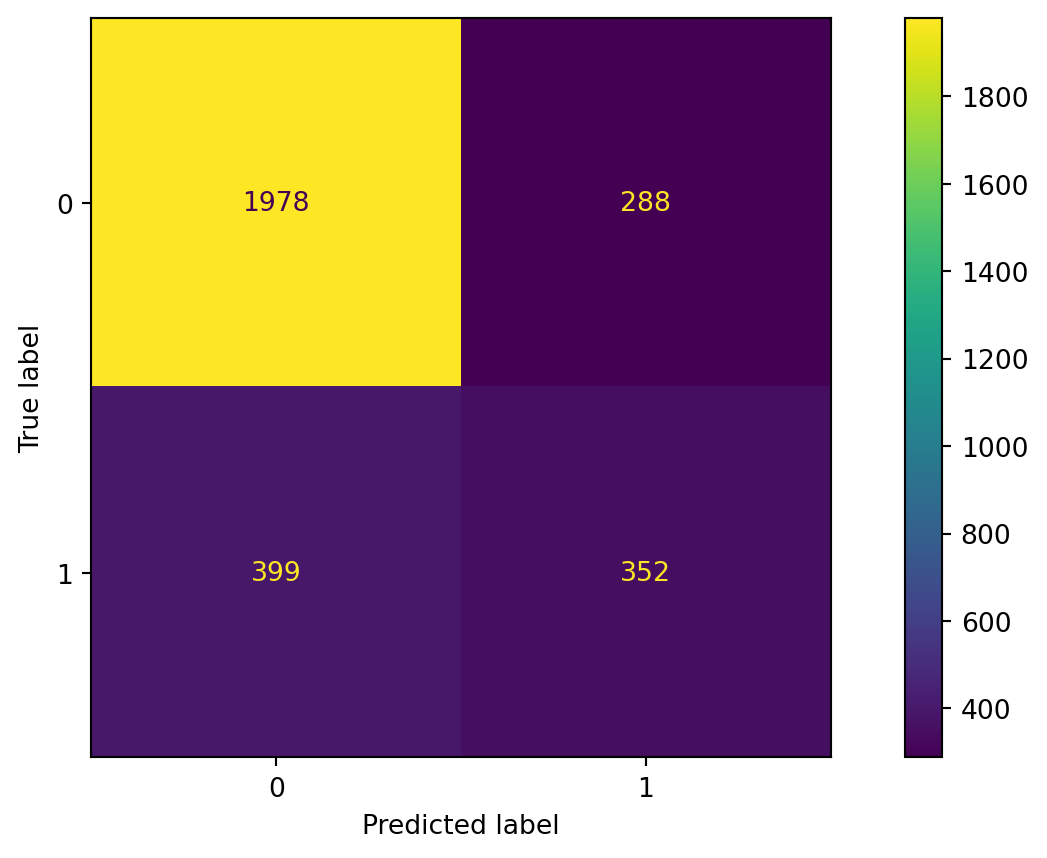
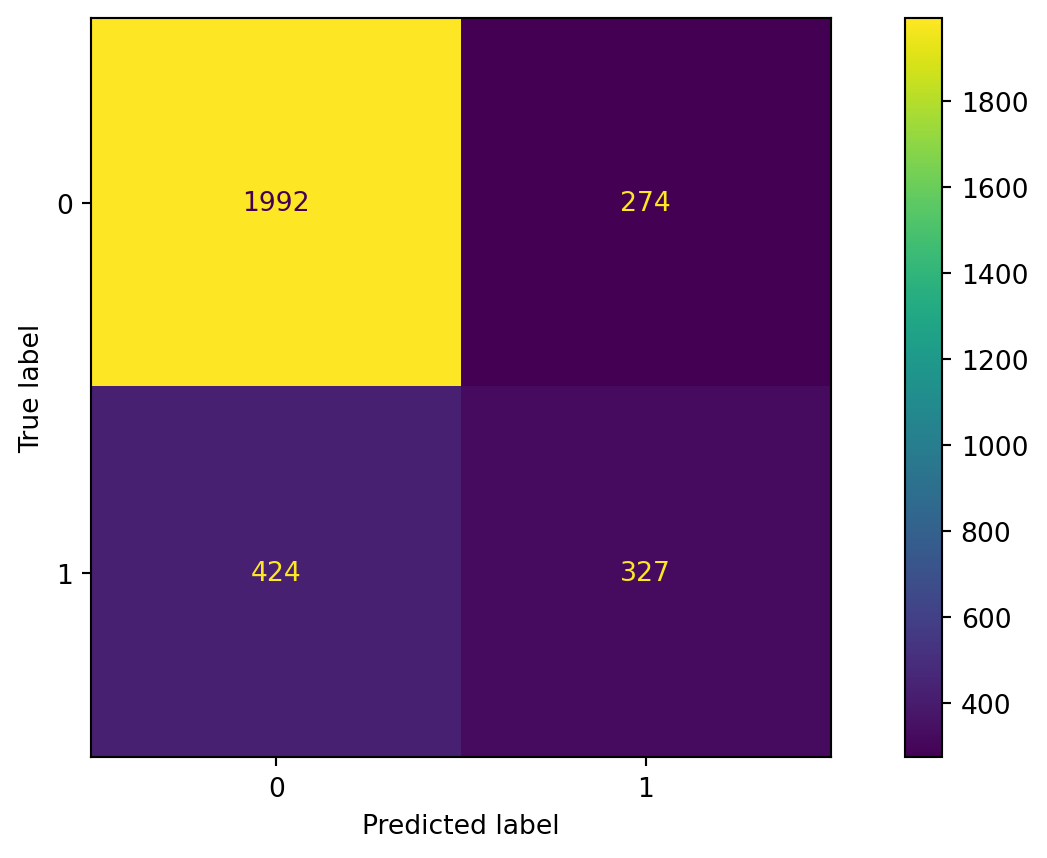
Add boosting to slides

diff --git a/docs/Classification/EnsembleMethods.slides.html b/docs/Classification/EnsembleMethods.slides.html
@@ -219,6 +219,7 @@ Alan R. Vazquez
 <li>Introduction to Ensemble Methods</li>
 <li>Bagging</li>
 <li>Random Forests</li>
+<li>Boosting</li>
 </ol>
 </section>
 <section>
@@ -229,7 +230,7 @@ Alan R. Vazquez
 <section id="load-the-libraries" class="slide level2">
 <h2>Load the libraries</h2>
 <p>Before we start, let’s import the data science libraries into Python.</p>
-<div id="42770e9f" class="cell" data-execution_count="1">
+<div id="5134f090" class="cell" data-execution_count="1">
 <div class="code-copy-outer-scaffold"><div class="sourceCode cell-code" id="cb1"><pre class="sourceCode numberSource python number-lines code-with-copy"><code class="sourceCode python"><span id="cb1-1"><a></a><span class="co"># Importing necessary libraries</span></span>
 <span id="cb1-2"><a></a><span class="im">import</span> pandas <span class="im">as</span> pd</span>
 <span id="cb1-3"><a></a><span class="im">import</span> matplotlib.pyplot <span class="im">as</span> plt</span>
@@ -360,13 +361,13 @@ Alan R. Vazquez
 </section>
 <section id="read-the-dataset" class="slide level2">
 <h2>Read the dataset</h2>
-<div id="2aec7125" class="cell" data-execution_count="2">
+<div id="69524834" class="cell" data-execution_count="2">
 <div class="code-copy-outer-scaffold"><div class="sourceCode cell-code" id="cb2"><pre class="sourceCode numberSource python number-lines code-with-copy"><code class="sourceCode python"><span id="cb2-1"><a></a><span class="co"># Load the data</span></span>
 <span id="cb2-2"><a></a>Adult_data <span class="op">=</span> pd.read_excel(<span class="st">'AdultReduced.xlsx'</span>)</span>
 <span id="cb2-3"><a></a></span>
 <span id="cb2-4"><a></a><span class="co"># Preview the data.</span></span>
 <span id="cb2-5"><a></a>Adult_data.head(<span class="dv">3</span>)</span></code></pre></div><button title="Copy to Clipboard" class="code-copy-button"><i class="bi"></i></button></div>
-<div class="cell-output cell-output-display" data-execution_count="2">
+<div class="cell-output cell-output-display" data-execution_count="146">
 <div>
 <style scoped="">
     .dataframe tbody tr th:only-of-type {
@@ -474,7 +475,7 @@ Alan R. Vazquez
 <li>education.num: number of years of education.</li>
 <li>hours.per.week: Number of work hours per week.</li>
 </ul>
-<div id="635fbae2" class="cell" data-execution_count="3">
+<div id="a79c499e" class="cell" data-execution_count="3">
 <div class="code-copy-outer-scaffold"><div class="sourceCode cell-code" id="cb3"><pre class="sourceCode numberSource python number-lines code-with-copy"><code class="sourceCode python"><span id="cb3-1"><a></a><span class="co"># Choose the predictors.</span></span>
 <span id="cb3-2"><a></a>X_full <span class="op">=</span> Adult_data.<span class="bu">filter</span>([<span class="st">'age'</span>, <span class="st">'sex'</span>, <span class="st">'race'</span>, <span class="st">'education.num'</span>, </span>
 <span id="cb3-3"><a></a>                            <span class="st">'hours.per.week'</span>])</span></code></pre></div><button title="Copy to Clipboard" class="code-copy-button"><i class="bi"></i></button></div>
@@ -484,7 +485,7 @@ Alan R. Vazquez
 <h2>Pre-processing for categorical predictors</h2>
 <p><br></p>
 <p>Unfortunately, bagging does not work with categorical predictors. We must transform them into dummy variables using the code below.</p>
-<div id="ee894496" class="cell" data-execution_count="4">
+<div id="81e0756b" class="cell" data-execution_count="4">
 <div class="code-copy-outer-scaffold"><div class="sourceCode cell-code" id="cb4"><pre class="sourceCode numberSource python number-lines code-with-copy"><code class="sourceCode python"><span id="cb4-1"><a></a><span class="co"># Turn categorical predictors into dummy variables.</span></span>
 <span id="cb4-2"><a></a>X_dummies <span class="op">=</span> pd.get_dummies(X_full[[<span class="st">'sex'</span>, <span class="st">'race'</span>]])</span>
 <span id="cb4-3"><a></a></span>
@@ -498,11 +499,11 @@ Alan R. Vazquez
 <section id="set-the-target-class" class="slide level2">
 <h2>Set the target class</h2>
 <p>Let’s set the <strong>target class</strong> and the <strong>reference class</strong> using the <code>get_dummies()</code> function.</p>
-<div id="4aafef05" class="cell" data-execution_count="5">
+<div id="849f9063" class="cell" data-execution_count="5">
 <div class="code-copy-outer-scaffold"><div class="sourceCode cell-code" id="cb5"><pre class="sourceCode numberSource python number-lines code-with-copy"><code class="sourceCode python"><span id="cb5-1"><a></a>Y <span class="op">=</span> Adult_data.<span class="bu">filter</span>([<span class="st">'income'</span>])</span>
 <span id="cb5-2"><a></a>Y_dummies <span class="op">=</span> pd.get_dummies(Y, dtype <span class="op">=</span> <span class="st">'int'</span>)</span>
 <span id="cb5-3"><a></a>Y_dummies.head(<span class="dv">4</span>)</span></code></pre></div><button title="Copy to Clipboard" class="code-copy-button"><i class="bi"></i></button></div>
-<div class="cell-output cell-output-display" data-execution_count="5">
+<div class="cell-output cell-output-display" data-execution_count="149">
 <div>
 <style scoped="">
     .dataframe tbody tr th:only-of-type {
@@ -558,12 +559,12 @@ Alan R. Vazquez
 <h2></h2>
 <p><br><br></p>
 <p>Here we’ll use the <strong>large</strong> target class. So, let’s use the corresponding column as our response variable.</p>
-<div id="fefe0cda" class="cell" data-execution_count="6">
+<div id="af65a873" class="cell" data-execution_count="6">
 <div class="code-copy-outer-scaffold"><div class="sourceCode cell-code" id="cb6"><pre class="sourceCode numberSource python number-lines code-with-copy"><code class="sourceCode python"><span id="cb6-1"><a></a><span class="co"># Choose target category.</span></span>
 <span id="cb6-2"><a></a>Y_target <span class="op">=</span> Y_dummies[<span class="st">'income_large'</span>]</span>
 <span id="cb6-3"><a></a></span>
 <span id="cb6-4"><a></a>Y_target.head()</span></code></pre></div><button title="Copy to Clipboard" class="code-copy-button"><i class="bi"></i></button></div>
-<div class="cell-output cell-output-display" data-execution_count="6">
+<div class="cell-output cell-output-display" data-execution_count="150">
 <pre><code>0    0
 1    0
 2    0
@@ -577,7 +578,7 @@ Name: income_large, dtype: int64</code></pre>
 <h2>Training and validation datasets</h2>
 <p><br></p>
 <p>To evaluate a model’s performance on unobserved data, we split the current dataset into training and validation datasets. To do this, we use <code>train_test_split()</code> from <strong>scikit-learn</strong>.</p>
-<div id="a06cea7a" class="cell" data-execution_count="7">
+<div id="b841ccdb" class="cell" data-execution_count="7">
 <div class="code-copy-outer-scaffold"><div class="sourceCode cell-code" id="cb8"><pre class="sourceCode numberSource python number-lines code-with-copy"><code class="sourceCode python"><span id="cb8-1"><a></a><span class="co"># Split into training and validation</span></span>
 <span id="cb8-2"><a></a>X_train, X_valid, Y_train, Y_valid <span class="op">=</span> train_test_split(X_full, Y_target,</span>
 <span id="cb8-3"><a></a>                                                      stratify <span class="op">=</span> Y_target,</span>
@@ -590,7 +591,7 @@ Name: income_large, dtype: int64</code></pre>
 <p><br></p>
 <p>We define a bagging algorithm for classification using the <code>BaggingClassifier</code> function from <strong>scikit-learn</strong>.</p>
 <p>The <code>n_estimators</code> argument is the number of decision trees to generate in bagging. Ideally, it should be high, around 500.</p>
-<div id="a5617a01" class="cell" data-execution_count="8">
+<div id="16055c8d" class="cell" data-execution_count="8">
 <div class="code-copy-outer-scaffold"><div class="sourceCode cell-code" id="cb9"><pre class="sourceCode numberSource python number-lines code-with-copy"><code class="sourceCode python"><span id="cb9-1"><a></a><span class="co"># Set the bagging algorithm.</span></span>
 <span id="cb9-2"><a></a>Baggingalgorithm <span class="op">=</span> BaggingClassifier(n_estimators <span class="op">=</span> <span class="dv">500</span>, </span>
 <span id="cb9-3"><a></a>                                     random_state <span class="op">=</span> <span class="dv">59227</span>)</span>
@@ -604,18 +605,18 @@ Name: income_large, dtype: int64</code></pre>
 <h2>Predictions from bagging</h2>
 <p><br><br><br></p>
 <p>Predict the classes using bagging on the validation dataset.</p>
-<div id="a9f94dea" class="cell" data-execution_count="9">
+<div id="98cb6e15" class="cell" data-execution_count="9">
 <div class="code-copy-outer-scaffold"><div class="sourceCode cell-code" id="cb10"><pre class="sourceCode numberSource python number-lines code-with-copy"><code class="sourceCode python"><span id="cb10-1"><a></a>predicted_class <span class="op">=</span> Baggingalgorithm.predict(X_valid)</span>
 <span id="cb10-2"><a></a></span>
 <span id="cb10-3"><a></a>predicted_class</span></code></pre></div><button title="Copy to Clipboard" class="code-copy-button"><i class="bi"></i></button></div>
-<div class="cell-output cell-output-display" data-execution_count="9">
-<pre><code>array([0, 0, 0, ..., 1, 0, 0])</code></pre>
+<div class="cell-output cell-output-display" data-execution_count="153">
+<pre><code>array([0, 0, 0, ..., 0, 0, 0])</code></pre>
 </div>
 </div>
 </section>
 <section id="confusion-matrix" class="slide level2">
 <h2>Confusion matrix</h2>
-<div id="4ae266fd" class="cell" data-execution_count="10">
+<div id="9dcb76a9" class="cell" data-execution_count="10">
 <div class="code-copy-outer-scaffold"><div class="sourceCode cell-code" id="cb12"><pre class="sourceCode numberSource python number-lines code-with-copy"><code class="sourceCode python"><span id="cb12-1"><a></a>cm <span class="op">=</span> confusion_matrix(Y_valid, predicted_class)</span>
 <span id="cb12-2"><a></a>ConfusionMatrixDisplay(cm).plot()</span></code></pre></div><button title="Copy to Clipboard" class="code-copy-button"><i class="bi"></i></button></div>
 <div class="cell-output cell-output-display">
@@ -631,14 +632,14 @@ Name: income_large, dtype: int64</code></pre>
 <h2>Accuracy</h2>
 <p><br><br></p>
 <p>The accuracy of the bagging classifier is 78%.</p>
-<div id="3ae3dba5" class="cell" data-execution_count="11">
+<div id="5a7b08ff" class="cell" data-execution_count="11">
 <div class="code-copy-outer-scaffold"><div class="sourceCode cell-code" id="cb13"><pre class="sourceCode numberSource python number-lines code-with-copy"><code class="sourceCode python"><span id="cb13-1"><a></a><span class="co"># Compute accuracy.</span></span>
 <span id="cb13-2"><a></a>accuracy <span class="op">=</span> accuracy_score(Y_valid, predicted_class)</span>
 <span id="cb13-3"><a></a></span>
 <span id="cb13-4"><a></a><span class="co"># Show accuracy.</span></span>
 <span id="cb13-5"><a></a><span class="bu">print</span>( <span class="bu">round</span>(accuracy, <span class="dv">2</span>) )</span></code></pre></div><button title="Copy to Clipboard" class="code-copy-button"><i class="bi"></i></button></div>
 <div class="cell-output cell-output-stdout">
-<pre><code>0.77</code></pre>
+<pre><code>0.76</code></pre>
 </div>
 </div>
 </section>
@@ -646,14 +647,14 @@ Name: income_large, dtype: int64</code></pre>
 <h2>A single deep tree</h2>
 <p><br><br></p>
 <p>To compare the bagging, let’s use a single deep tree.</p>
-<div id="1d0c8441" class="cell" data-execution_count="12">
+<div id="fb6cc1e9" class="cell" data-execution_count="12">
 <div class="code-copy-outer-scaffold"><div class="sourceCode cell-code" id="cb15"><pre class="sourceCode numberSource python number-lines code-with-copy"><code class="sourceCode python"><span id="cb15-1"><a></a>clf_simple <span class="op">=</span> DecisionTreeClassifier(min_samples_leaf <span class="op">=</span> <span class="dv">5</span>, ccp_alpha<span class="op">=</span><span class="fl">0.0</span>, </span>
 <span id="cb15-2"><a></a>                                    random_state<span class="op">=</span><span class="dv">507134</span>)</span>
 <span id="cb15-3"><a></a></span>
 <span id="cb15-4"><a></a>clf_simple.fit(X_train, Y_train)</span></code></pre></div><button title="Copy to Clipboard" class="code-copy-button"><i class="bi"></i></button></div>
 </div>
 <p>Let’s compute the accuracy of the pruned tree.</p>
-<div id="754affad" class="cell" data-execution_count="13">
+<div id="c3acb4a1" class="cell" data-execution_count="13">
 <div class="code-copy-outer-scaffold"><div class="sourceCode cell-code" id="cb16"><pre class="sourceCode numberSource python number-lines code-with-copy"><code class="sourceCode python"><span id="cb16-1"><a></a>single_tree_Y_pred <span class="op">=</span> clf_simple.predict(X_valid)</span>
 <span id="cb16-2"><a></a>accuracy <span class="op">=</span> accuracy_score(Y_valid, single_tree_Y_pred)</span>
 <span id="cb16-3"><a></a><span class="bu">print</span>( <span class="bu">round</span>(accuracy, <span class="dv">2</span>) )</span></code></pre></div><button title="Copy to Clipboard" class="code-copy-button"><i class="bi"></i></button></div>
@@ -746,7 +747,7 @@ Name: income_large, dtype: int64</code></pre>
 <h2>Random Forest in Python</h2>
 <p><br></p>
 <p>In Python, we define a RandomForest algorithm for classification using the <code>RandomForestClassifier</code> function from <strong>scikit-learn</strong>. The <code>n_estimators</code> argument is the number of decision trees to generate in the RandomForest, and <code>random_state</code> allows you to reprudce the results.</p>
-<div id="5df922c9" class="cell" data-execution_count="14">
+<div id="ca8a74b4" class="cell" data-execution_count="14">
 <div class="code-copy-outer-scaffold"><div class="sourceCode cell-code" id="cb18"><pre class="sourceCode numberSource python number-lines code-with-copy"><code class="sourceCode python"><span id="cb18-1"><a></a><span class="co"># Set the bagging algorithm.</span></span>
 <span id="cb18-2"><a></a>RFalgorithm <span class="op">=</span> RandomForestClassifier(n_estimators <span class="op">=</span> <span class="dv">500</span>, </span>
 <span id="cb18-3"><a></a>                                     max_features <span class="op">=</span> <span class="st">'sqrt'</span>,</span>
@@ -759,7 +760,7 @@ Name: income_large, dtype: int64</code></pre>
 <section id="confusion-matrix-1" class="slide level2">
 <h2>Confusion matrix</h2>
 <p>Evaluate the performance of random forest.</p>
-<div id="4e1b9520" class="cell" data-execution_count="15">
+<div id="ae7c8d01" class="cell" data-execution_count="15">
 <details class="code-fold">
 <summary>Code</summary>
 <div class="code-copy-outer-scaffold"><div class="sourceCode cell-code" id="cb19"><pre class="sourceCode numberSource python number-lines code-with-copy"><code class="sourceCode python"><span id="cb19-1"><a></a><span class="co"># Predict class.</span></span>
@@ -784,7 +785,7 @@ Name: income_large, dtype: int64</code></pre>
 <h2>Accuracy</h2>
 <p><br><br></p>
 <p>The accuracy of the random forest classifier is 79%.</p>
-<div id="0eeb81d7" class="cell" data-execution_count="16">
+<div id="f3b79644" class="cell" data-execution_count="16">
 <div class="code-copy-outer-scaffold"><div class="sourceCode cell-code" id="cb20"><pre class="sourceCode numberSource python number-lines code-with-copy"><code class="sourceCode python"><span id="cb20-1"><a></a><span class="co"># Compute accuracy.</span></span>
 <span id="cb20-2"><a></a>accuracy <span class="op">=</span> accuracy_score(Y_valid, RF_predicted)</span>
 <span id="cb20-3"><a></a></span>
@@ -794,6 +795,125 @@ Name: income_large, dtype: int64</code></pre>
 <pre><code>0.77</code></pre>
 </div>
 </div>
+</section></section>
+<section>
+<section id="boosting" class="title-slide slide level1 center">
+<h1>Boosting</h1>
+
+</section>
+<section id="boosting-1" class="slide level2">
+<h2>Boosting</h2>
+<p><br></p>
+<ul>
+<li><p>In boosting, we also grow multiple decision trees. But instead of growing trees randomly, each new tree depends on the previous one.</p></li>
+<li><p>Boosting is easier to understand in the context of regression, rather than classification.</p></li>
+<li><p><u><em>Idea</em></u>: Explore <span style="color:green;"><strong>cooperation</strong></span> between decision trees, rather than <span style="color:#2E5A88;">diversity</span> as in Bagging and Random Forest.</p></li>
+</ul>
+</section>
+<section id="boosting-for-regression" class="slide level2">
+<h2>Boosting for regression</h2>
+<ul>
+<li class="fragment"><p>Boosting creates a sequence of trees, each one building upon the previous.</p></li>
+<li class="fragment"><p>Earlier trees are small, and the next tree is created with the <strong>residuals</strong> of the previous tree.</p></li>
+<li class="fragment"><p>In other words, at each step, we try to explain the information that we didn’t explain in previous steps.</p></li>
+<li class="fragment"><p>Gradually, the sequence “learns” to predict.</p></li>
+<li class="fragment"><p>Something a little odd: earlier trees are deliberately “held back” to keep them from explaining too much. This creates “slow learning”.</p></li>
+</ul>
+</section>
+<section id="section-5" class="slide level2">
+<h2></h2>
+
+<img data-src="images/clipboard-1569467446.png" class="quarto-figure quarto-figure-center r-stretch"><p><a href="https://pythongeeks.org/gradient-boosting-algorithm-in-machine-learning/" class="uri">https://pythongeeks.org/gradient-boosting-algorithm-in-machine-learning/</a></p>
+</section>
+<section id="gradient-boosting-algorithm" class="slide level2">
+<h2><span style="color:darkgreen;">Gradient Boosting Algorithm</span></h2>
+<p>Initially, the boosted tree is <span class="math inline">\(\hat{f}(\boldsymbol{x}) = 0\)</span> and the residuals of this tree are <span class="math inline">\(r_i = y_i - f(\boldsymbol{x}_i)\)</span> for all <span class="math inline">\(i\)</span> in the training data.</p>
+<p>At each step <span class="math inline">\(b\)</span> in the process (<span class="math inline">\(b = 1, \ldots, B\)</span>), we</p>
+<div style="font-size: 90%;">
+<ol type="1">
+<li><strong>Build</strong> a regression tree <span class="math inline">\(\hat{T}_b\)</span> with <span class="math inline">\(d\)</span> splits to the training data <span class="math inline">\((\boldsymbol{X}, \boldsymbol{r})\)</span>. This tree has <span class="math inline">\(d+1\)</span> terminal nodes.</li>
+<li><strong>Update</strong> the boosted tree <span class="math inline">\(\hat{f}\)</span> by adding in a <span style="color:orange;"><strong><em>shrunken</em></strong></span> version of the new tree: <span class="math inline">\(\hat{f}(\boldsymbol{x}) \leftarrow \hat{f}(\boldsymbol{x}) + \lambda \hat{T}_b(\boldsymbol{x})\)</span>.</li>
+<li><strong>Update</strong> the residuals using shrunken tree, <span class="math inline">\(r_i \leftarrow r_i - \lambda \hat{T}_b(x_i)\)</span>.</li>
+</ol>
+</div>
+</section>
+<section id="section-6" class="slide level2">
+<h2></h2>
+<p><br><br><br></p>
+<p>The final boosted tree is:</p>
+<p><span class="math display">\[\hat{f}(\boldsymbol{x}) = \sum_{b=1}^{B} \lambda \hat{T}_b (\boldsymbol{x}).\]</span></p>
+</section>
+<section id="why-does-this-work" class="slide level2">
+<h2>Why does this work?</h2>
+<ul>
+<li><p>By using a small tree, we are deliberately leaving information out of the first round of the model. So what gets fit is the “easy” stuff.</p></li>
+<li><p>The residuals have all of the information that we haven’t yet explained. We continue iterating on the residuals, fitting them with small trees, so that we slowly explain the bits of the variation that are harder to explain.</p></li>
+<li><p>This process is called “learning”: at each iteration, we get a better fit.</p></li>
+</ul>
+</section>
+<section id="section-7" class="slide level2">
+<h2></h2>
+<p><br><br><br></p>
+<ul>
+<li>By multiplying by <span class="math inline">\(\lambda &lt; 1\)</span>, we “slow down” the learning (by making it harder to fit all of the variation), and there is research that says that slower learning is better.</li>
+</ul>
+</section>
+<section id="tuning-parameters" class="slide level2">
+<h2>Tuning Parameters</h2>
+<p><br></p>
+<ul>
+<li><p>The <span style="color:orange;">number of trees</span> <em>B</em>. Unlike bagging and random forest, boosting can overfit if B is too large. We use K-fold cross-validation to select B.</p></li>
+<li><p>The <span style="color:orange;">shrinkage parameter</span> <span class="math inline">\(\lambda\)</span>, a small positive number. Typical values are 0.01 or 0.001. Very small <span class="math inline">\(\lambda\)</span> can require using a very large value of B to achieve good performance.</p></li>
+<li><p>The <span style="color:orange;">number of splits</span> <span class="math inline">\(d\)</span> in each tree. Common choices are 1, 4 or 5. Often <span class="math inline">\(d=1\)</span>, in which case each tree is a stump.</p></li>
+</ul>
+</section>
+<section id="issues-with-boosting" class="slide level2">
+<h2>Issues with Boosting</h2>
+<p><br><br></p>
+<ul>
+<li><p><em>Loss of interpretability</em>: the final boosted model is a <span style="color:darkred;">weighted sum of trees</span>, which we cannot interpret easily.</p></li>
+<li><p><em>Computational complexity</em>: since it uses slow learners, it can be time consuming. However, we are growing small trees, each step can be done relatively quickly in some cases (e.g.&nbsp;AdaBoost).</p></li>
+</ul>
+</section>
+<section id="adaptive-boosting-adaboost" class="slide level2">
+<h2>Adaptive Boosting (AdaBoost)</h2>
+<p><br></p>
+<p>AdaBoost trains an ensemble of weak learners (classification trees) over a number of iterations.</p>
+<p>At first, every observation has the same weight, so AdaBoost trains a normal classifier.</p>
+<p>Next, observations that were misclassified by the ensemble model so far are given a heavier weight. Another classifier is then trained to classify the weighted observations.</p>
+<p>This new classifier is also given a weight depending on its accuracy and incorporated into the ensemble model.</p>
+</section>
+<section id="section-8" class="slide level2">
+<h2></h2>
+<p><br></p>
+
+<img data-src="images/clipboard-3805820570.png" class="quarto-figure quarto-figure-center r-stretch"><p><a href="https://towardsdatascience.com/understanding-adaboost-for-decision-tree-ff8f07d2851" class="uri">https://towardsdatascience.com/understanding-adaboost-for-decision-tree-ff8f07d2851</a></p>
+</section>
+<section id="section-9" class="slide level2">
+<h2></h2>
+
+<img data-src="images/clipboard-2190355818.png" class="quarto-figure quarto-figure-center r-stretch"></section>
+<section id="bagging-vs-boosting" class="slide level2">
+<h2><span style="color:#2E5A88;">Bagging</span> VS Boosting</h2>
+<p><br></p>
+<p>Bagging <strong>decreases variance</strong>, not necessarily bias</p>
+<ul>
+<li><p>Suitable to combine high variance low bias models (complex models).</p></li>
+<li><p>Example algorithm: random forest.</p></li>
+<li><p>Reducing the overfit of ensembles of complex models (strength of diversity).</p></li>
+<li><p>Hence: deep decision trees.</p></li>
+</ul>
+</section>
+<section id="bagging-vs-boosting-1" class="slide level2">
+<h2>Bagging VS <span style="color:darkgreen;">Boosting</span></h2>
+<p><br></p>
+<p>Boosting <strong>decreases bias</strong>, not necessarily variance</p>
+<ul>
+<li><p>Suitable to combine low variance high bias models (simple models).</p></li>
+<li><p>Example algorithms: AdaBoost, gradient boosting machines (GBM) for <span style="color:gold;"><strong><em>regression and classification</em></strong></span>.</p></li>
+<li><p>Reducing the error of ensembles of simple models (strength of cooperation).</p></li>
+<li><p>Hence: logistic regression, non-deep, “weak” decision trees.</p></li>
+</ul>
 </section></section>
 <section id="return-to-main-page" class="title-slide slide level1 center">
 <h1><a href="https://alanrvazquez.github.io/TEC-IN5148/">Return to main page</a></h1>
